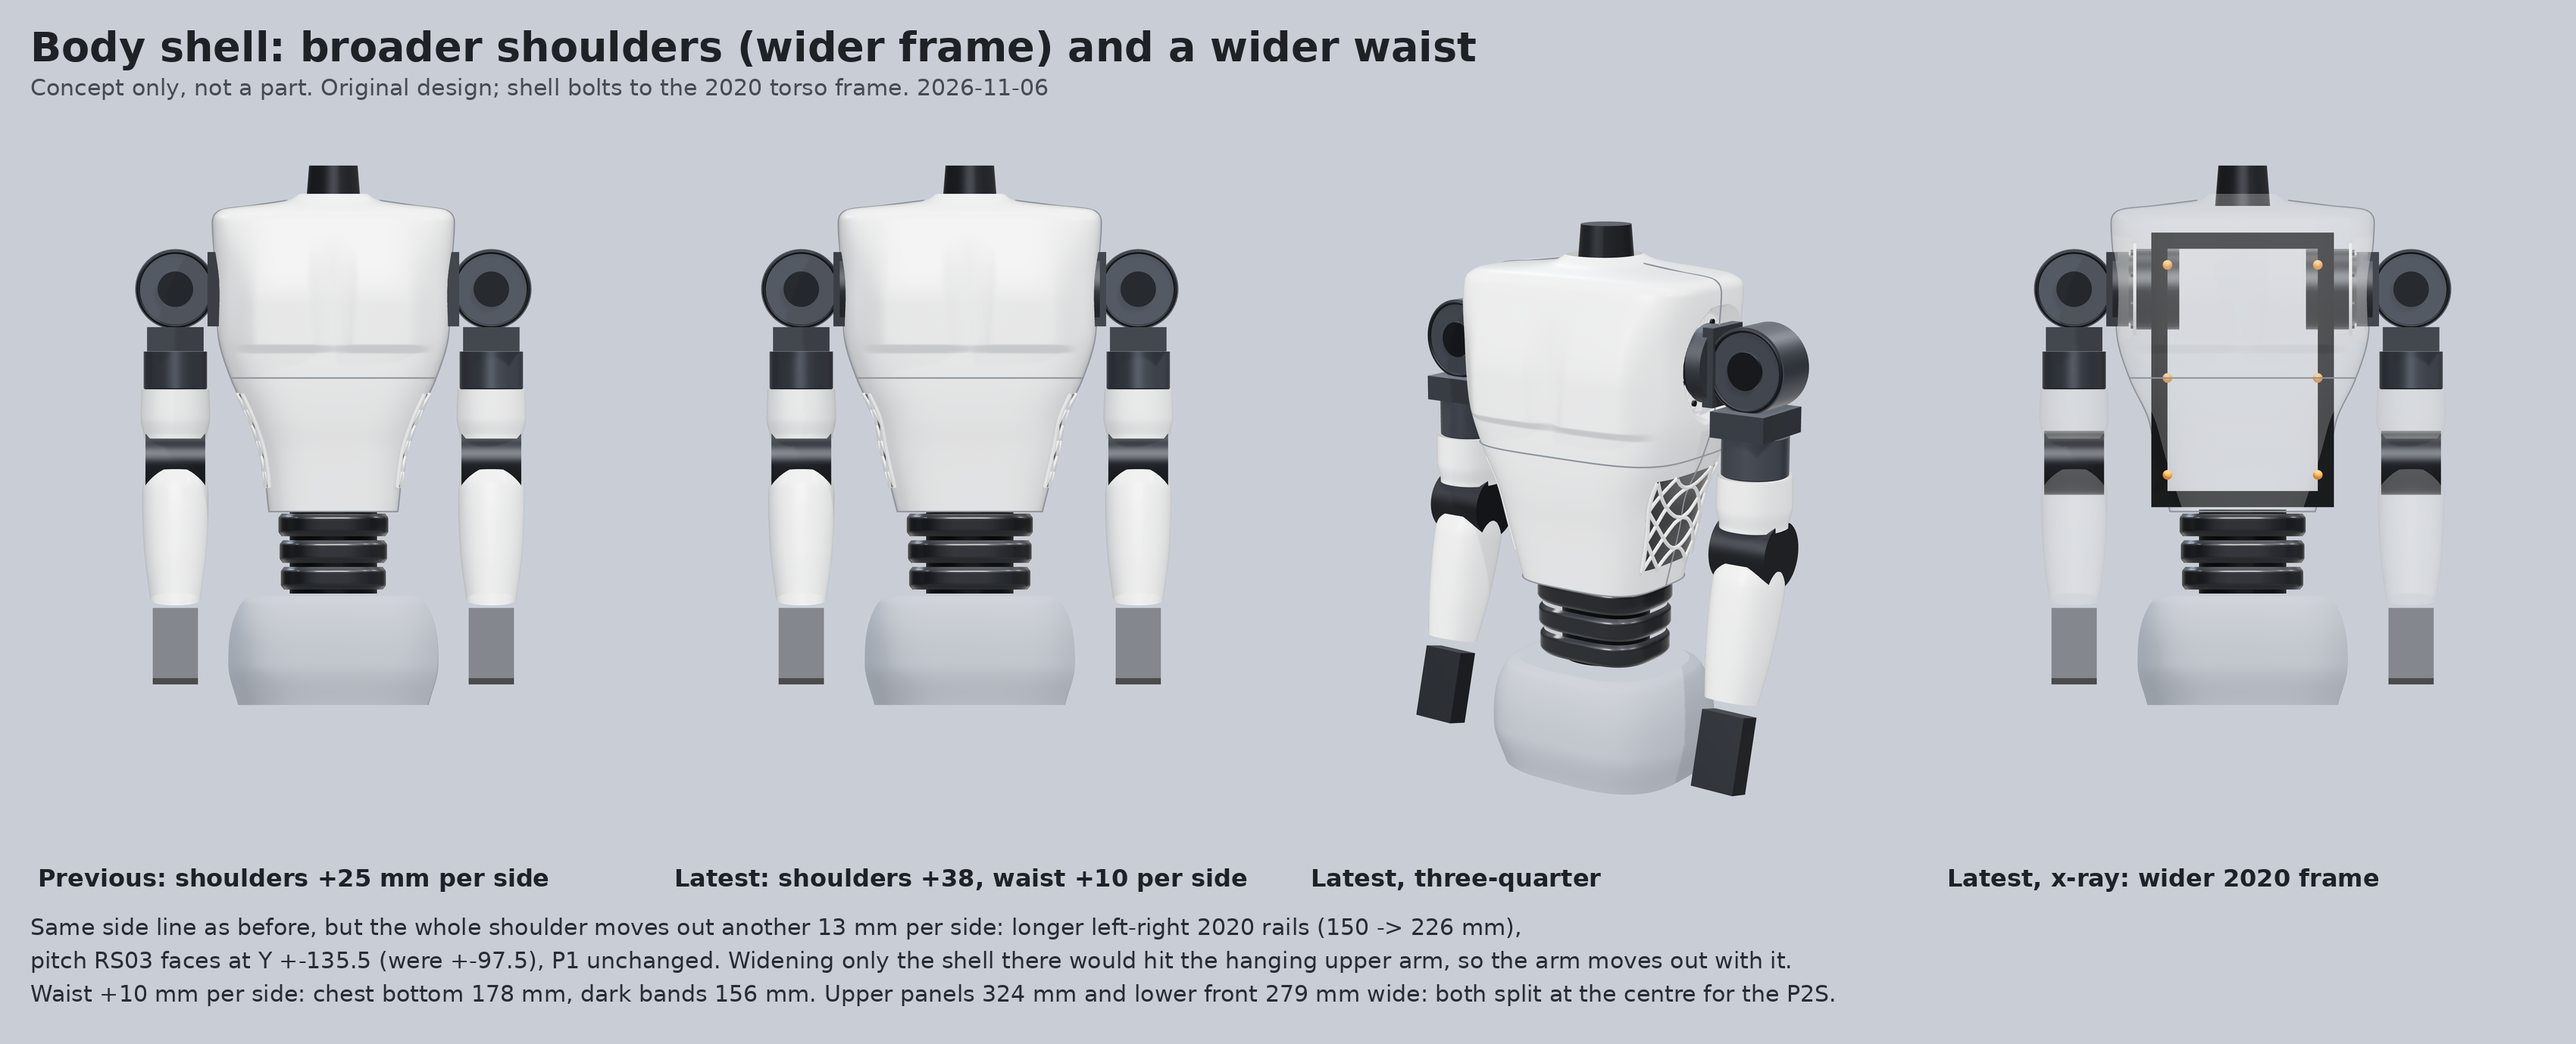
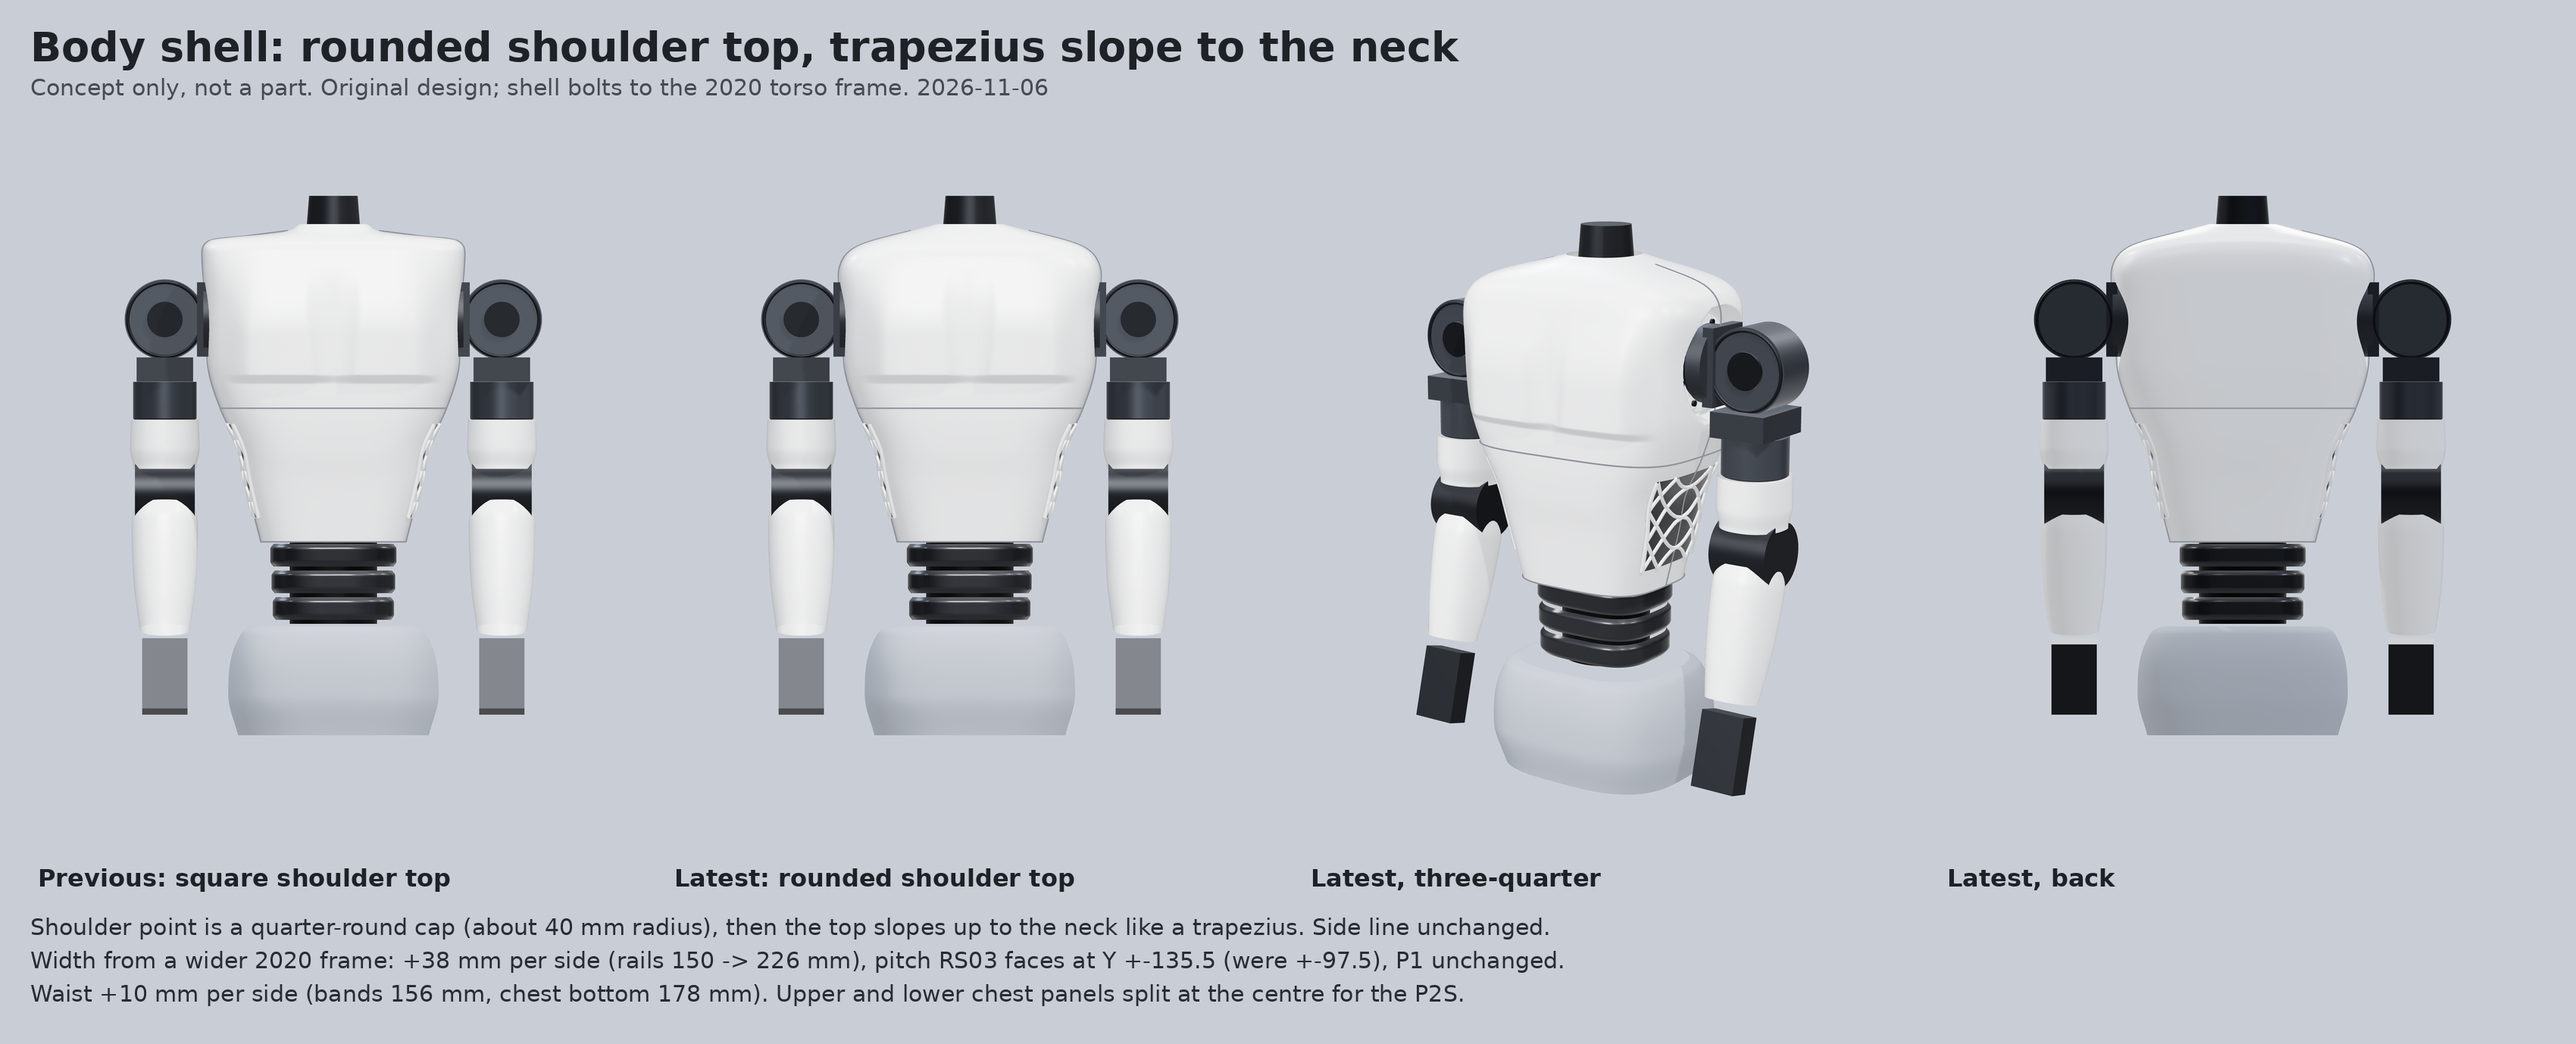
Body shell concept: rounded shoulder top with trapezius slope
Claude-Session: https://claude.ai/code/session_01754Cr9zuADVTu8kWS5Uq1U

diff --git a/hardware/designs/body-shell/concept/generator/scene.js b/hardware/designs/body-shell/concept/generator/scene.js
@@ -138,9 +138,15 @@ const chest = [
   [ZS - 111, WALL - 23, 106, 86, 4.0],
   [ZS - 55, WALL - 7, 108, 88, 4.4],
   [ZS + 10, WALL - 5, 108, 88, 4.8],
-  [F1 + 12, WALL, 100, 88, 4.8],   // shoulder point
-  [F1 + 28, WALL - 10, 88, 82, 4.2],
-  [F1 + 38, 64, 60, 64, 3.0],
+  // Joey 2026-11-06: rounded human shoulder top. Quarter-round cap (R ~40) at the shoulder point,
+  // then a sloped trapezius line up to the neck.
+  [F1 - 15, WALL, 104, 88, 4.6],   // shoulder point
+  [F1 + 2, WALL - 4, 100, 87, 4.4],
+  [F1 + 13, WALL - 12, 95, 85, 4.1],
+  [F1 + 21, WALL - 24, 88, 82, 3.8],
+  [F1 + 27, WALL - 40, 80, 78, 3.5],
+  [F1 + 34, 96, 68, 70, 3.1],
+  [F1 + 41, 68, 55, 58, 2.7],
   [F1 + 48, 42, 44, 46, 2.4],
 ];
 // shoulder socket: inside radius SOCK_R of the pitch axis the shell side steps in to the RS03 face (Y = +-97),

diff --git a/hardware/designs/body-shell/concept/generator/compose.py b/hardware/designs/body-shell/concept/generator/compose.py
@@ -43,11 +43,11 @@ sheet([(crop('w0.png', (700, 300, 2500, 2300), w=900), 'Shoulders as built: roll
       'Body shell, concept B: chest plate and shoulder width', sub, 'SHELL_CONCEPT_WIDTH.png',
       ['Head removed until it is designed. Chest has pec masses, a sternum groove and a crisp lower edge; the black yoke panel is gone.',
        'The +25 mm option lengthens P1 (arm thread); the shell shoulder line widens with it. Shell upper panels then need a centre split for the P2S.'])
-sheet([(crop('m25.png', (600, 300, 2600, 2300), w=800), 'Previous: shoulders +25 mm per side'),
-       (crop('w38.png', (600, 300, 2600, 2300), w=800), 'Latest: shoulders +38, waist +10 per side'),
-       (crop('w38iso.png', (700, 200, 2500, 2400), w=800), 'Latest, three-quarter'),
-       (crop('w38x.png', (600, 300, 2600, 2300), w=800), 'Latest, x-ray: wider 2020 frame')],
-      'Body shell: broader shoulders (wider frame) and a wider waist', sub, 'SHELL_CONCEPT_BLEND.png',
-      ['Same side line as before, but the whole shoulder moves out another 13 mm per side: longer left-right 2020 rails (150 -> 226 mm),',
-       'pitch RS03 faces at Y +-135.5 (were +-97.5), P1 unchanged. Widening only the shell there would hit the hanging upper arm, so the arm moves out with it.',
-       'Waist +10 mm per side: chest bottom 178 mm, dark bands 156 mm. Upper panels 324 mm and lower front 279 mm wide: both split at the centre for the P2S.'])
+sheet([(crop('w38.png', (600, 200, 2600, 2300), w=800), 'Previous: square shoulder top'),
+       (crop('r38.png', (600, 200, 2600, 2300), w=800), 'Latest: rounded shoulder top'),
+       (crop('r38iso.png', (700, 200, 2500, 2400), w=800), 'Latest, three-quarter'),
+       (crop('r38back.png', (600, 200, 2600, 2300), w=800), 'Latest, back')],
+      'Body shell: rounded shoulder top, trapezius slope to the neck', sub, 'SHELL_CONCEPT_BLEND.png',
+      ['Shoulder point is a quarter-round cap (about 40 mm radius), then the top slopes up to the neck like a trapezius. Side line unchanged.',
+       'Width from a wider 2020 frame: +38 mm per side (rails 150 -> 226 mm), pitch RS03 faces at Y +-135.5 (were +-97.5), P1 unchanged.',
+       'Waist +10 mm per side (bands 156 mm, chest bottom 178 mm). Upper and lower chest panels split at the centre for the P2S.'])

diff --git a/hardware/designs/body-shell/concept/README.md b/hardware/designs/body-shell/concept/README.md
@@ -18,7 +18,7 @@ mock-up, not SolidWorks; the real panels get modelled on Joey-PC once the look i
 | `SHELL_CONCEPT_PROPORTIONS.png` | Full 5 ft figure: frame as built vs a +70 mm waist section |
 | `SHELL_CONCEPT_PANELS.png` | Shoulder close-up of the collar; exploded print panels |
 | `SHELL_CONCEPT_WIDTH.png` | Pec chest plate, no head, shoulders as built vs P1 +25 mm per side |
-| `SHELL_CONCEPT_BLEND.png` | Latest: in-between side line, shoulders +38 mm per side via a wider 2020 frame (226 mm), waist +10 mm per side |
+| `SHELL_CONCEPT_BLEND.png` | Latest: in-between side line, shoulders +38 mm per side via a wider 2020 frame (226 mm), waist +10 mm per side, rounded shoulder top |
 
 ## Key dimensions (robot frame, X forward, Y left, Z up)
 
